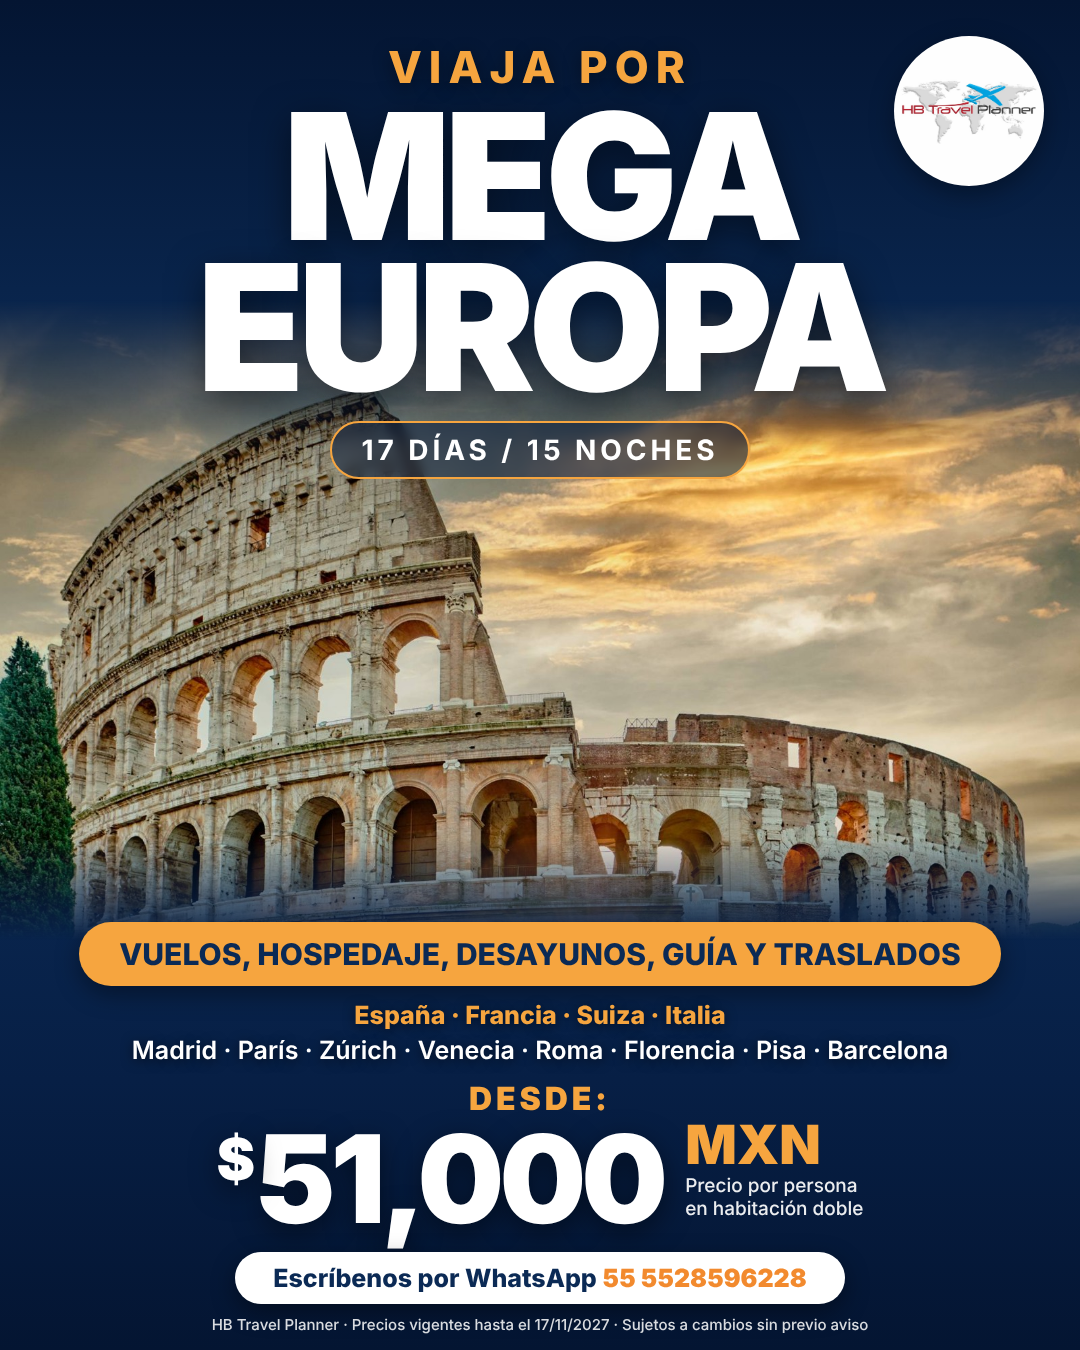
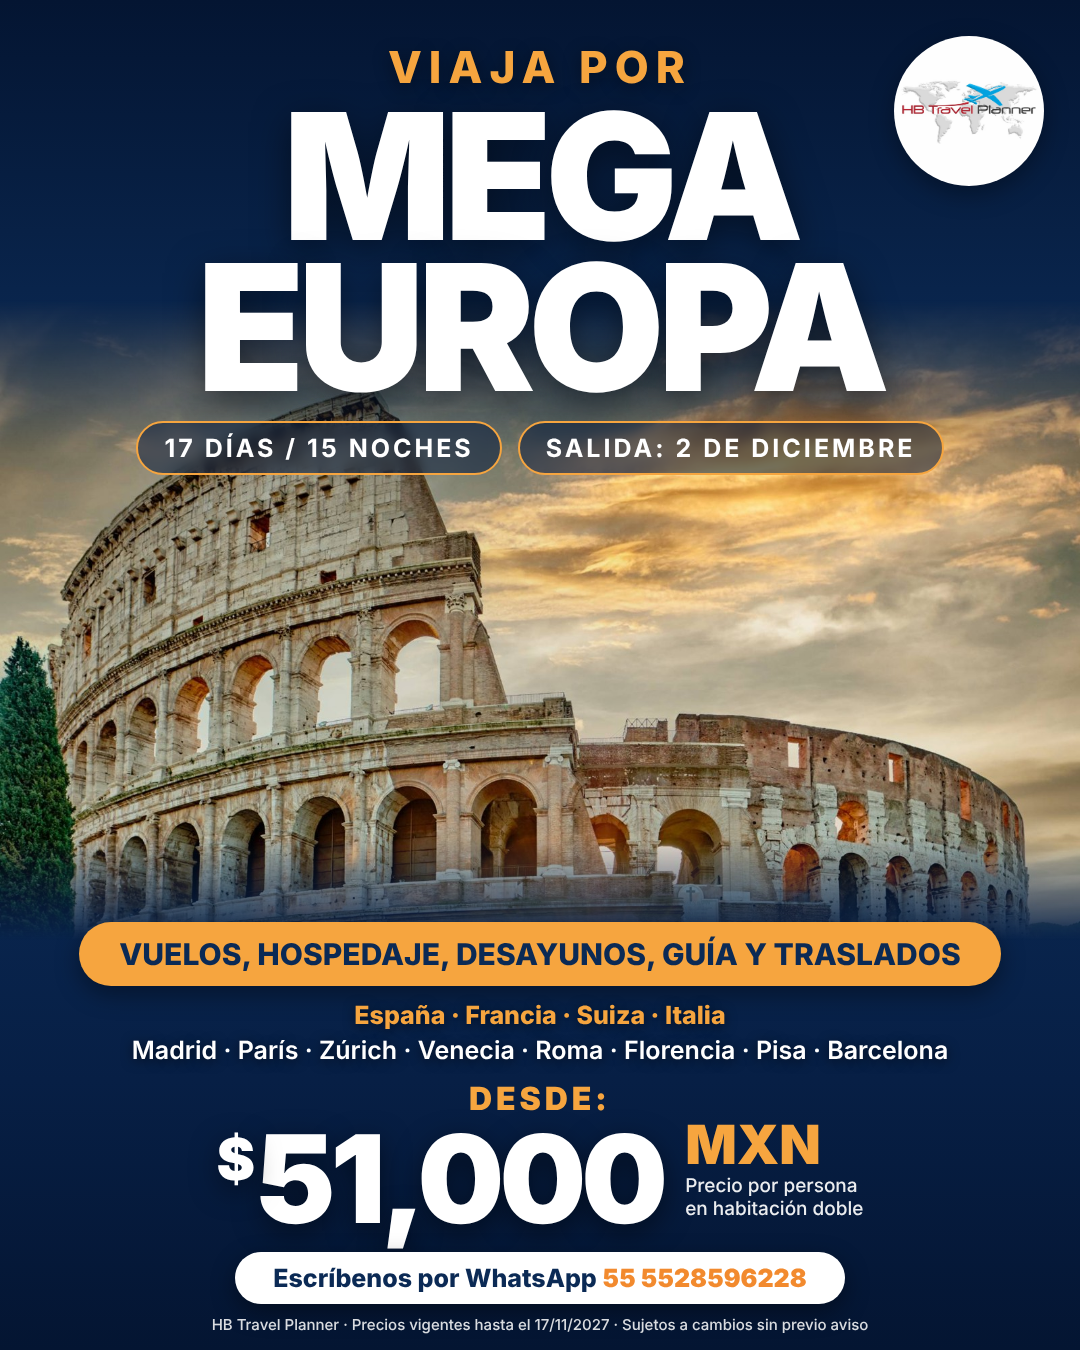
Mega Europa flyer: add first December departure (2 Dec)
Claude-Session: https://claude.ai/code/session_01KE8y3zqjDfDU485wDV3TSB

Changed region(s): [[0.1222, 0.3111, 0.8861, 0.3733]]

diff --git a/flyers/mega-europa.html b/flyers/mega-europa.html
@@ -18,9 +18,10 @@
   .title{font-weight:900;font-size:176px;line-height:.86;letter-spacing:-.04em;text-transform:uppercase;
     text-shadow:0 10px 36px rgba(0,0,0,.5);margin-top:6px}
   .title span{display:block}
-  .days{display:inline-block;margin-top:18px;padding:10px 30px;border-radius:999px;
+  .chips{display:flex;justify-content:center;gap:16px;margin-top:18px}
+  .days{display:inline-block;padding:10px 26px;border-radius:999px;
     background:rgba(6,26,58,.55);backdrop-filter:blur(6px);border:2px solid var(--amber);
-    font-weight:700;font-size:28px;letter-spacing:.14em}
+    font-weight:700;font-size:25px;letter-spacing:.12em}
   .logo{position:absolute;right:36px;top:36px;width:150px;height:150px;border-radius:50%;background:#fff url(assets/logo.jpg) center/118% no-repeat;
     box-shadow:0 8px 24px rgba(0,0,0,.35)}
   .bottom{position:absolute;left:0;right:0;top:922px;bottom:16px;display:flex;flex-direction:column;align-items:center;justify-content:space-between}
@@ -48,7 +49,7 @@
   <div class="top">
     <div class="kicker">Viaja por</div>
     <h1 class="title"><span>Mega</span><span>Europa</span></h1>
-    <div class="days">17 DÍAS / 15 NOCHES</div>
+    <div class="chips"><div class="days">17 DÍAS / 15 NOCHES</div><div class="days">SALIDA: 2 DE DICIEMBRE</div></div>
   </div>
   <div class="bottom">
     <div class="pill p1">VUELOS, HOSPEDAJE, DESAYUNOS, GUÍA Y TRASLADOS</div>
